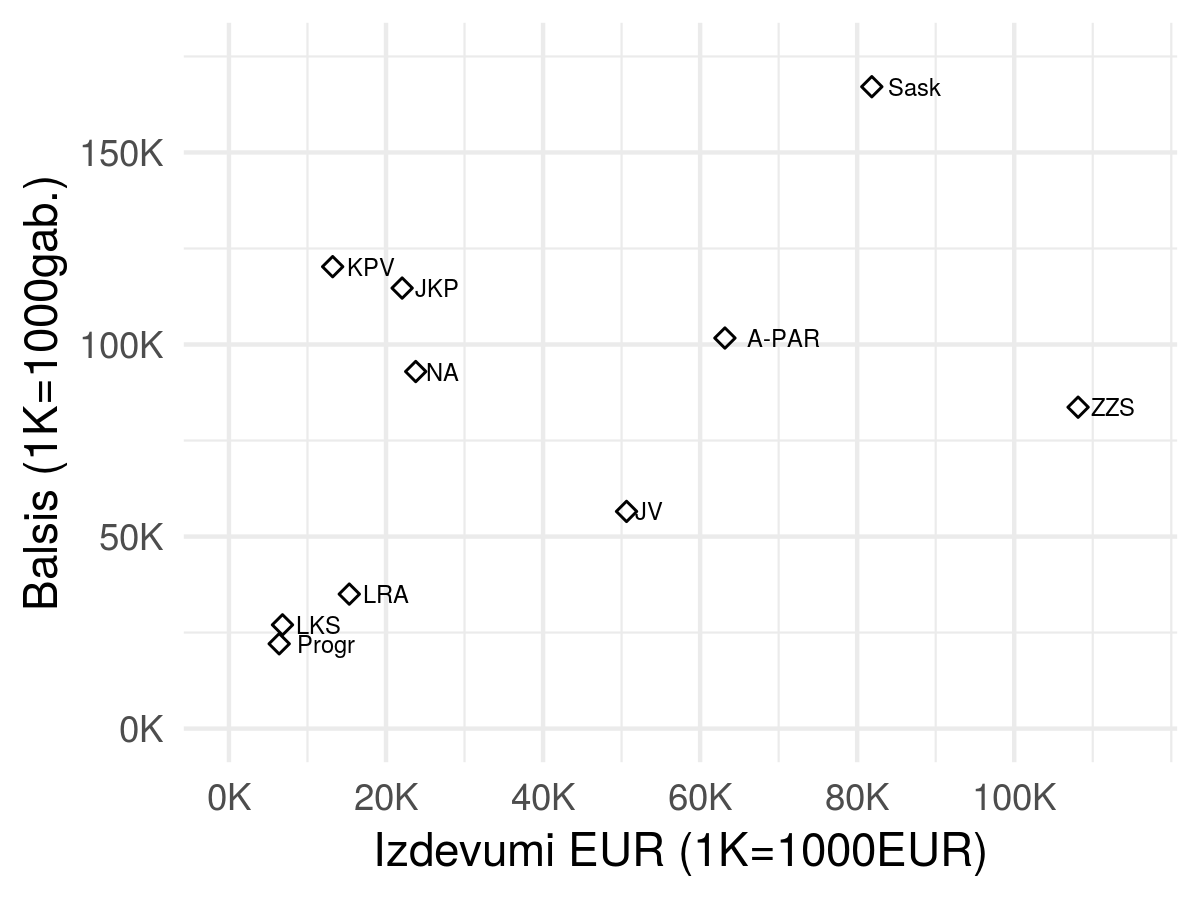
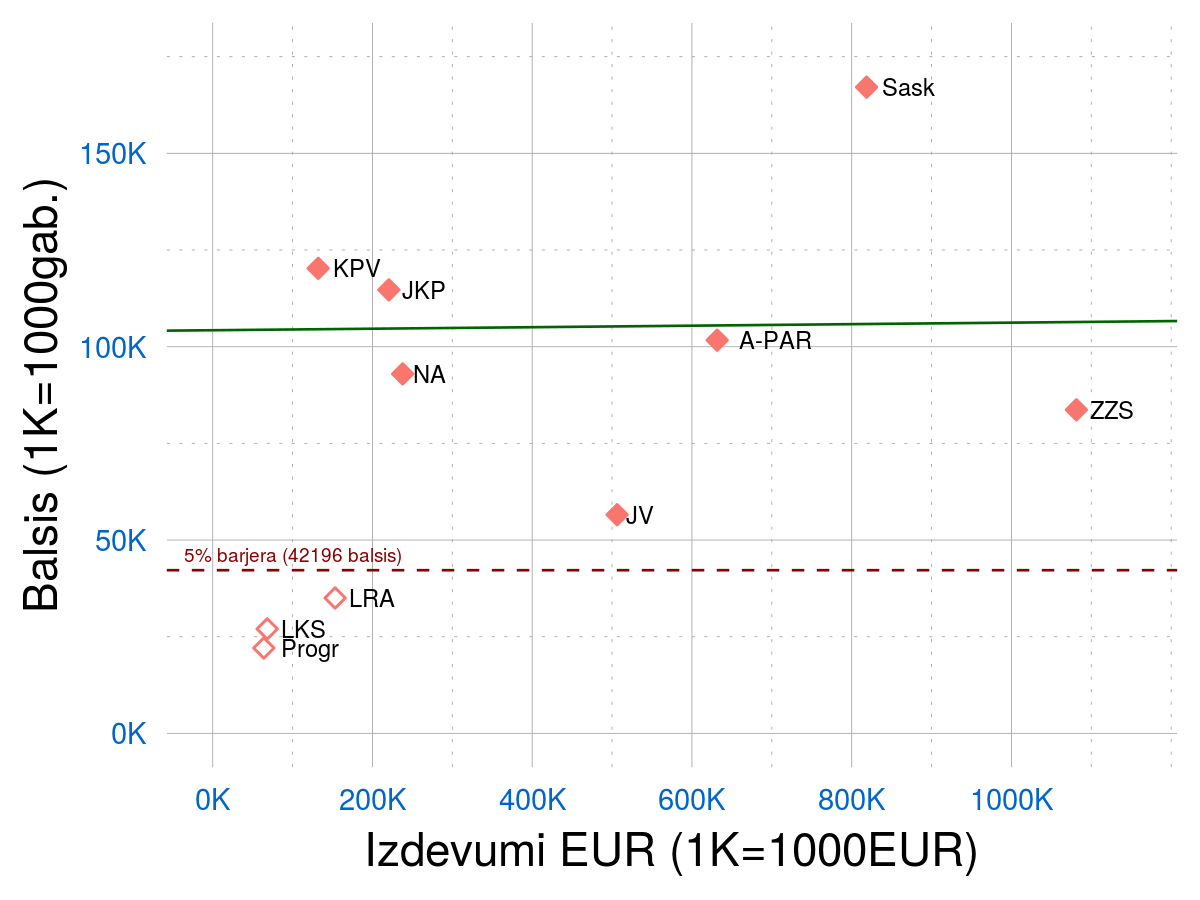
korelacijas

diff --git a/zpd-election-ads/correlations.md b/zpd-election-ads/correlations.md
@@ -17,21 +17,49 @@ Softs, ar kuru zīmētas korelāciju diagrammas (valoda R): [correlations.R](cor
 
 ![Diagramma Nr.3: Korelācija starp izdevumiem un balsīm](declarations/corr1.png)
 
-**Iegūtās balsis atkarībā no partijas ieņēmumiem priekšvēlēšanu laikā:**
 
+## Lineārā regresija
 
+Tumši zaļā svītra, kura attēlā ir gandrīz horizontāla, apzīmē 
+korelācijas taisni. Tā ir taisne, kuras attālumu kvadrātu summa 
+līdz visu 7 Saeimā 
+tikušo partiju datu punktiem (balsis/izdevumi) ir vismazākā. 
+Faktiski starp Saeimā iekļuvušajām partijām rezultāta atkarība no 
+kampaņā ieguldītās naudas ir ļoti vāja; septiņi sārtie rombiņi nav
+izvietojušies kādas lineāri augošas taisnes tuvumā, tie ir juceklīgi 
+izmētāti. Korelācijas koeficients $k=0.02$ nozīmē, ka
+vēlēšanu iznākuma atkarība no reklāmā ieguldītās naudas faktiski nav. 
 
+Vai tas nozīmē, ka Saeimā var iekļūt vispār bez naudas? 
+Tas, protams, nebūtu patiesība, jo ir diezgan lieli sākotnējie/fiksētie izdevumi, 
+kas partijai nepieciešami, lai vispār varētu iestāties spēlē un pārvarēt 5% barjeru. 
+(Pēc tam, kad partija šo sākotnējo barjeru pārvarējusi, tālāka naudas tērēšana 
+vairs nav efektīva - kā to redzam, salīdzinot ZZS un KPV rezultātus.)
 
-## Lineāra modeļa izmantošana prognozei
+Lai iegūtu vismaz pirmo priekšstatu par reklāmai nepieciešamo summu, izdarīsim 2 pieņēmumus: 
 
-Mēģināsim novērtēt, cik dārga vēlēšanu kampaņa ir nepieciešama, lai 
-partija pārsniegtu 5% barjeru. 13.Saeimas vēlēšanās derīgo 
-aplokšņu skaits bija 843920. Tādēļ šajās vēlēšanās 5% barjera
-(mazākais balsu skaits, kas partijai jāsaņem visos 5 vēlēšanu apgabalos kopā, 
-lai varētu piedalīties proporcionālajā Saeimas krēslu dalīšanā) ir 
-**42196 balsis**. No visām 16 partijām aplūkojām tikai tās, kuras 
-šo barjeru pārsniedza vai arī bija pietiekami tuvu tās pārsniegšanai 
-(Latvijas Reģionu Apvienība, Latvijas Krievu savienība un Progresīvie). 
+* Partijas darbības efektivitāte, "pārvēršot" reklāmu vēlētāju balsīs,
+nav ekstrēma (kā ZZS vai KPV), bet ir vienāda ar vēlēšanās sasniegto caurmēru: 
+$$\frac{m_1+m_2+\ldots+m_10}{v_1+v_2+\ldots+v_{10}}$$
+Šajā formulā $m_i$ apzīmē $i$-tās partijas iztērēto naudu, bet $v_i$ - iegūtās balsis. 
+Ievietojot skaitļus no KNAB pieejamajām partiju deklarācijām (izdoto naudu) 
+un CVK publicētajiem datiem par balsīm, iegūstam attiecību 4.76 EUR. Tas ir 
+13.Saeimas vēlēšanu laikā izdotais naudas daudzums par 1 vēlētāja balsi ("vidējo" 
+balsi, kas dažādām partijām var būtiski atšķirties). 
+* Šādi iegūto vienas balss "cenu" reizinām ar 5% barjeru. 
+Iegūstam $4.76 \cdot{} 42196 = 200853$
+
+Secinām, ka Saeimā iekļuvušai partijai vajadzētu iztērēt vismaz 200 tūkstošus EUR 
+(atrasties pa labi no vertikālās raustītās līnijas).
+Pretējā gadījumā - vai nu netiks pārsniegta barjera, vai arī jāpieņem, ka 
+partijas priekšvēlēšanu kampaņa izdosies labāk nekā "rekordistiem" no KPV - 
+A.Kaimiņam, A.Gobzemam u.c. Visas citas Saeimā iekļuvušās partijas minētos 200 tūkstošus
+eiro iztērēja. Savukārt, LRA, LKS, Progresīvie netika un arī nesasniedza šo summu. 
+Nevar, protams, apgalvot, ka viņi tiktu, ja būtu tērējuši vairāk - bet pārāk taupīga 
+kampaņa, visticamāk, negatīvi iespaidoja viņu rezultātu.
+
+![Diagramma Nr.4: Caurmēra izdevumu modelis](declarations/corr2.png)
+
 
 ## Secinājumi
 
@@ -44,9 +72,10 @@ Tas tomēr nenozīmē, ka nauda tieši (vai vēl jo vairāk - lineāri) iespaido
 vēlēšanu rezultātu, t.i., iztērējot divreiz vairāk naudas, varētu iegūt 
 divreiz lielāku rezultātu. 
 2. Ir tomēr zināms naudas daudzums, zem kura partijai ir grūti sasniegt 
-nospraustos mērķus. To mēģinājām novērtēt lineārajā modelī, lai saprastu, 
-ar kādiem sākotnējiem ieguldījumiem jārēķinās, lai varētu pārvarēt 5% barjeru. 
-Novērojam, ka dažām partijām (piemēram "Progresīvajiem") bija drusku par maz
+nospraustos mērķus. To mēģinājām novērtēt lineārā modelī (cik daudz naudas 
+vajadzīgs, ja caurmēra cenu par vienu balsi reizinām ar vēlētāju skaitu 5% barjeras
+pārsniegšanai).
+Novērojam, ka dažām partijām (piemēram, "Progresīvajiem") bija drusku par maz
 naudas, lai veiksmīgi reklamētos.
 3. **Ko gribētos pētīt tālāk?** 13.Saeimas vēlēšanas bija drusku neparastas - 
 pēc dažu politologu (kuru?) atzinuma tur sacentās "vecie" politiskie spēki - 

diff --git a/zpd-election-ads/money-vs-results.md b/zpd-election-ads/money-vs-results.md
@@ -73,10 +73,13 @@ ieraksti - tiešsaistes tikšanās ar vēlētājiem Facebook), kuros viņš
 brauc automašīnā un stāsta KPV programmas nostādnes. Piemēram, ko nozīmē 
 tēze "Valstij ir jāsāk ar sevi". Te konkurējošas partijas deputātu kandidāta
 Edmunda Jurēvica (Vienotība) ierakstīta parodija: 
-[Galdis Obzems beidzot pateica kā ir!](https://twitter.com/EdmundsJurevics/status/1032695865557827585). 
-3. **Ko gribētos pētīt tālāk?** Var salīdzināt ZZS un KPV iesniegtās deklarācijas, 
-saprast reklāmas izdevumu sadalījumu pa reklāmu veidiem. Ļoti iespējams, ka KPV (un 
-līdzīgi efektīvās partijas JKP) izdevumu struktūra parāda, kā mūsdienās 
-efektīvāk veidot vēlēšanu kampaņas.
+[Galdis Obzems beidzot pateica kā ir!](https://twitter.com/EdmundsJurevics/status/1032695865557827585).
+Alda Gobzema klipu oriģināli, diemžēl jau izdzēsti no YouTube. Sal. 
+[https://twitter.com/AldisGobzems/status/1046136651125313537](https://twitter.com/AldisGobzems/status/1046136651125313537), bet E.Jurēvica parodija diezgan pareizi attēlo šī veida reklāmas klipu 
+kompozīciju.
+3. **Ko gribētos pētīt tālāk?** Var salīdzināt ZZS, JV (dārgākās reklāmas kampaņas) 
+un KPV, JKP (lētākās reklāmas kampaņas) iesniegtās deklarācijas, 
+saprast reklāmas izdevumu sadalījumu pa reklāmu veidiem. Ļoti iespējams, ka KPV un JKP 
+izdevumu struktūra parāda, kā mūsdienās efektīvāk veidot vēlēšanu kampaņas.
 
 
